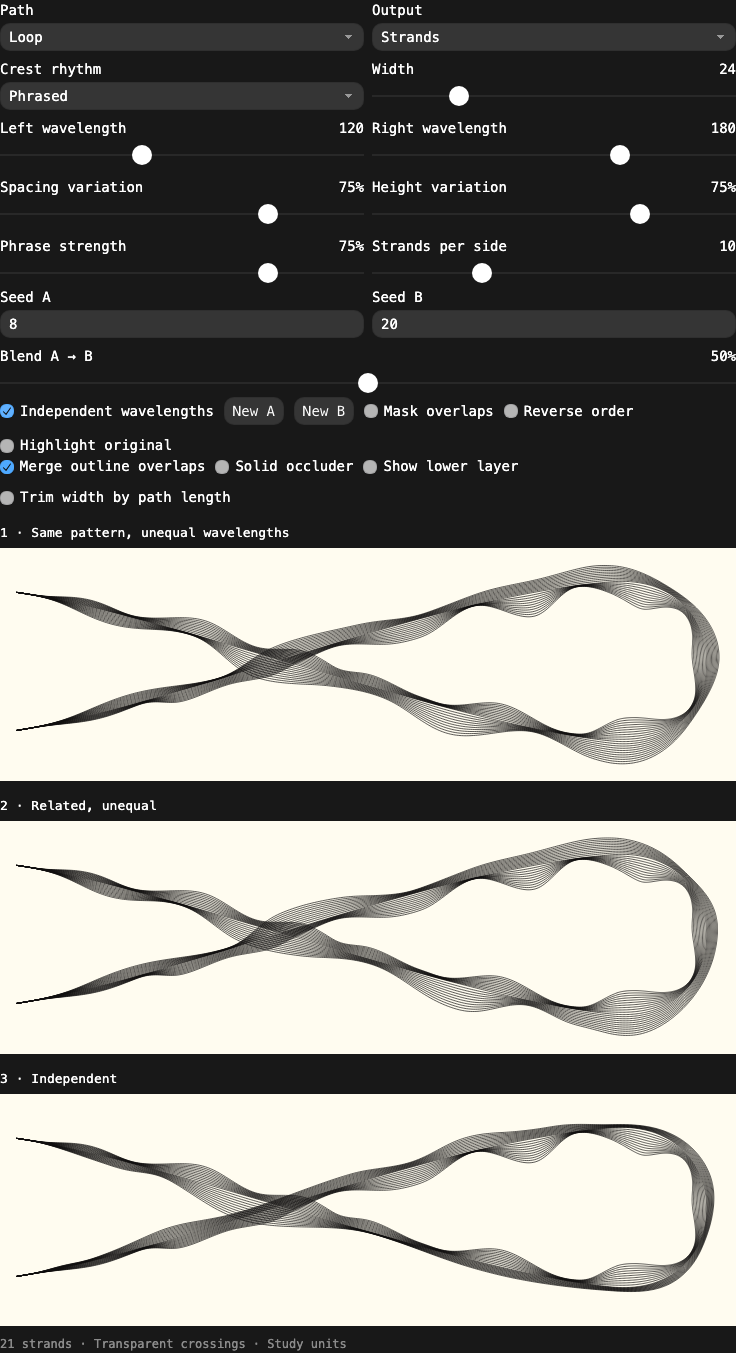
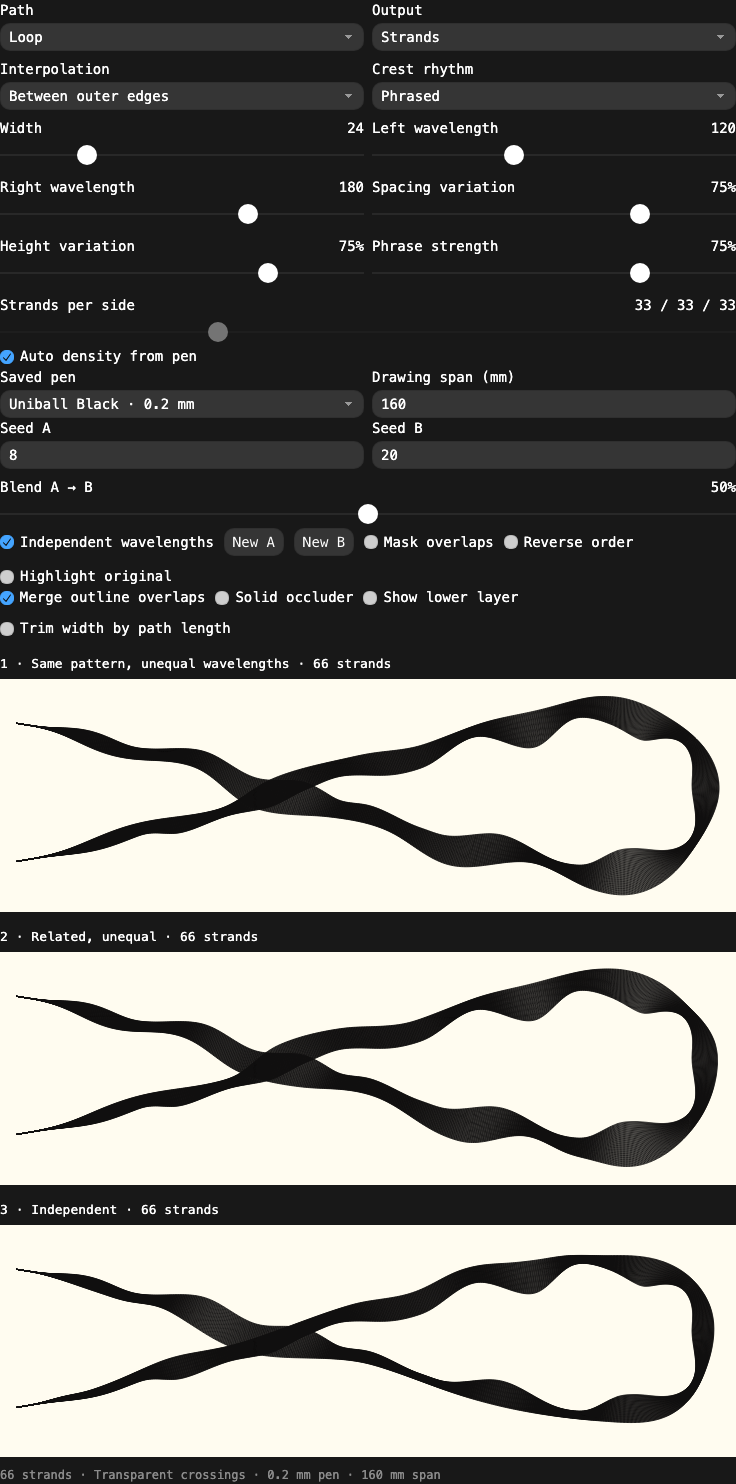
feat: add edge interpolation and pen-based ribbon density

diff --git a/docs/reviews/open-path-ribbon-2026-09-08/study-template.html b/docs/reviews/open-path-ribbon-2026-09-08/study-template.html
@@ -19,6 +19,12 @@
         <option value="solid">Solid silhouette</option>
       </select>
     </label>
+    <label class="form-label">Interpolation
+      <select class="form-select" id="ribbon-interpolation">
+        <option value="spine">Through original path</option>
+        <option value="edges">Between outer edges</option>
+      </select>
+    </label>
     <label class="form-label">Crest rhythm
       <select class="form-select" id="ribbon-rhythm">
         <option value="phrased" selected>Phrased</option>
@@ -49,6 +55,13 @@
     <label class="form-label">Strands per side <output id="ribbon-steps-value">10</output>
       <input class="form-range" id="ribbon-steps" type="range" min="1" max="32" value="10" step="1">
     </label>
+  </div>
+  <div class="viz-row">
+    <label class="form-check"><input class="form-check-input" id="ribbon-autoDensity" type="checkbox"><span class="form-check-label">Auto density from pen</span></label>
+  </div>
+  <div class="viz-controls" id="ribbon-density-controls" hidden>
+    <label class="form-label">Saved pen <select class="form-select" id="ribbon-pen"></select></label>
+    <label class="form-label">Drawing span (mm) <input class="form-control" id="ribbon-spanMm" type="number" min="10" max="300" step="1" value="160"></label>
   </div>
   <div class="viz-controls">
     <label class="form-label">Seed A <input class="form-control" id="ribbon-seedA" type="number" min="0" max="4294967295" step="1" value="7"></label>
@@ -93,6 +106,8 @@
 (() => {
   const root = document.getElementById('ribbon-study');
   const find = id => root.querySelector('#ribbon-' + id);
+  const savedPens=/* PEN_INSERT */;
+  for(const pen of savedPens){const el=document.createElement('option');el.value=pen.id;el.textContent=pen.name+' · '+pen.line_diameter_mm+' mm';find('pen').appendChild(el);}
   const relations = [['mirrored','1 · Mirrored'],['related','2 · Related, unequal'],['independent','3 · Independent']];
 
   const pathData = points => points.map((p,i) => (i ? 'L' : 'M') + p.map(n => n.toFixed(3)).join(' ')).join(' ');
@@ -103,11 +118,15 @@
       spacingVariation:+find('spacingVariation').value/100, heightVariation:+find('heightVariation').value/100,
       phrasing:+find('phrasing').value/100, width: +find('width').value, wavelength: +find('wavelength').value,
       variation: +find('variation').value / 100, steps: +find('steps').value,
+      interpolation:find('interpolation').value,autoDensity:find('autoDensity').checked&&find('outputMode').value==='strands',
       outputMode:find('outputMode').value,mergeOverlaps:find('mergeOverlaps').checked,solidOccluder:find('solidOccluder').checked,
       widthByLength:find('widthByLength').checked,taper:.12,maskLoops:find('outputMode').value==='strands'&&find('mask').checked,reverseOrder:find('reverse').checked };
+    find('autoDensity').disabled=options.outputMode!=='strands';
+    find('density-controls').hidden=!options.autoDensity;
+    find('steps').disabled=options.autoDensity;
     find('mergeOverlaps').disabled=options.outputMode!=='outline';
     find('mask').disabled=options.outputMode!=='strands';
-    find('guide').disabled=options.outputMode!=='strands';
+    find('guide').disabled=options.outputMode!=='strands'||options.interpolation==='edges';
     find('widthByLength').disabled=!['many','crossing'].includes(find('shape').value);
     find('right-wave-control').hidden=!options.independentWavelengths;
     find('wave-label').textContent=options.independentWavelengths?'Left wavelength':'Wavelength';
@@ -123,7 +142,13 @@
     const inputs = find('shape').value==='many' ? [
       [[40,45],[660,45]],[[40,115],[480,115]],[[40,185],[300,185]],[[40,255],[150,255]]
     ] : find('shape').value==='crossing' ? [[[60,40],[640,240]],[[60,240],[640,40]]] : [fixtures[find('shape').value]];
+    const allPoints=inputs.flat(),xs=allPoints.map(p=>p[0]);
+    const spanUnits=Math.max(1,Math.max(...xs)-Math.min(...xs));
+    const spanMm=Math.max(10,Math.min(300,+find('spanMm').value||160));
+    const pen=savedPens.find(p=>p.id===find('pen').value)??savedPens[0];
+    options.penWidth=pen.line_diameter_mm*spanUnits/spanMm;
     const results = relations.map(([relation,label]) => ({label:relation==='mirrored'&&options.independentWavelengths&&options.wavelengthRight!==options.wavelength?'1 · Same pattern, unequal wavelengths':label, ...RibbonStudy.generateMany(inputs,{...options,relation})}));
+    if(options.autoDensity){find('steps-value').textContent=results.map(r=>r.steps).join(' / ');for(const r of results)r.label+=' · '+(2*r.steps+(options.interpolation==='edges'?0:1))+' strands';}
     // The same framing for every relation preserves the comparison's scale.
     let x0=Infinity,y0=Infinity,x1=-Infinity,y1=-Infinity;
     for (const r of results) for (const strand of r.strands) for(const [x,y] of strand) {
@@ -135,8 +160,8 @@
     });
     for(const r of results)r.background=find('background').checked ?
       (options.solidOccluder||options.outputMode==='solid' ? RibbonSilhouette.clipPaths(background,r.silhouette??[]) : background) : [];
-    find('drawings').innerHTML = results.map(r => `<div class="ribbon-label">${r.label}</div><svg class="ribbon-drawing" role="img" aria-label="${r.label} open path ribbon, ${options.outputMode}" viewBox="${box.join(' ')}"><title>${r.label}</title><g class="ribbon-lower" fill="none" stroke="#878580" stroke-width=".8">${r.background.map(p=>`<path d="${pathData(p)}"/>`).join('')}</g>${options.outputMode==='solid' ? `<path class="ribbon-solid" fill="#100F0F" fill-rule="evenodd" d="${(r.silhouette??[]).flat().map(p=>pathData(p)+'Z').join(' ')}"/>` : `<g class="ribbon-ink">${r.drawingPaths.map(p=>`<path d="${pathData(p)}"/>`).join('')}</g>`}${options.outputMode==='solid'?`<g class="ribbon-ink">${r.items.filter(item=>item.diagnostics.skipped).flatMap(item=>item.strands).map(p=>`<path d="${pathData(p)}"/>`).join('')}</g>`:''}${find('guide').checked&&options.outputMode==='strands' ? r.spines.map(p=>`<path class="ribbon-guide" d="${pathData(p)}"/>`).join('') : ''}</svg>`).join('');
-    find('detail').textContent = `${options.outputMode==='strands' ? (inputs.length>1 ? results[0].retainedSteps.map(n=>2*n+1).join(' / ')+' strands' : (2*options.steps+1)+' strands') : options.outputMode==='outline'?'Outline only':'Solid silhouette'} · ${options.solidOccluder||options.outputMode==='solid'?'Solid occlusion':options.maskLoops ? (options.reverseOrder ? 'Earlier passages on top' : 'Later passages on top') : 'Transparent crossings'} · Study units`;
+    find('drawings').innerHTML = results.map(r => `<div class="ribbon-label">${r.label}</div><svg class="ribbon-drawing" role="img" aria-label="${r.label} open path ribbon, ${options.outputMode}" viewBox="${box.join(' ')}"><title>${r.label}</title><g class="ribbon-lower" fill="none" stroke="#878580" stroke-width=".8">${r.background.map(p=>`<path d="${pathData(p)}"/>`).join('')}</g>${options.outputMode==='solid' ? `<path class="ribbon-solid" fill="#100F0F" fill-rule="evenodd" d="${(r.silhouette??[]).flat().map(p=>pathData(p)+'Z').join(' ')}"/>` : `<g class="ribbon-ink" style="stroke-width:${options.autoDensity?options.penWidth:.65}">${r.drawingPaths.map(p=>`<path d="${pathData(p)}"/>`).join('')}</g>`}${options.outputMode==='solid'?`<g class="ribbon-ink">${r.items.filter(item=>item.diagnostics.skipped).flatMap(item=>item.strands).map(p=>`<path d="${pathData(p)}"/>`).join('')}</g>`:''}${find('guide').checked&&options.outputMode==='strands'&&options.interpolation!=='edges' ? r.spines.map(p=>`<path class="ribbon-guide" d="${pathData(p)}"/>`).join('') : ''}</svg>`).join('');
+    find('detail').textContent = `${options.outputMode==='strands' ? (inputs.length>1 ? results[0].retainedSteps.map(n=>2*n+(options.interpolation==='edges'?0:1)).join(' / ')+' strands' : (2*results[0].steps+(options.interpolation==='edges'?0:1))+' strands') : options.outputMode==='outline'?'Outline only':'Solid silhouette'} · ${options.solidOccluder||options.outputMode==='solid'?'Solid occlusion':options.maskLoops ? (options.reverseOrder ? 'Earlier passages on top' : 'Later passages on top') : 'Transparent crossings'} · ${options.autoDensity?(results.some(r=>r.densityLimited)?'Density limit reached · ':'')+pen.line_diameter_mm+' mm pen · '+spanMm+' mm span':'Study units'}`;
     root.dataset.rendered = 'true';
     root.dataset.seed = String(seed);
   }

diff --git a/docs/reviews/open-path-ribbon-2026-09-08/geometry.js b/docs/reviews/open-path-ribbon-2026-09-08/geometry.js
@@ -367,6 +367,25 @@
 
     const leftWidths = outerWidths(leftProfile,0);
     const rightWidths = outerWidths(rightProfile,1);
+    if(opts.autoDensity) {
+      if(!(Number.isFinite(+opts.penWidth)&&+opts.penWidth>0))throw Error('Auto density needs a positive pen width in path units');
+      // Budget both endpoint profiles, independent of the current seed blend.
+      // A shared count avoids strands popping in/out while the blend is moved.
+      const refsA=profiles(opts.seed),refsB=seedB===opts.seed?refsA:profiles(seedB);
+      let peakLeft=0,peakRight=0,maxFrame=0;
+      for(let i=0;i<spine.length;i++) {
+        const s=sampled.ss[i],envelope=opts.width*taperAt(s,sampled.total,opts.taper);
+        peakLeft=Math.max(peakLeft,refsA[0](s)*envelope,refsB[0](s)*envelope);
+        peakRight=Math.max(peakRight,refsA[1](s)*envelope,refsB[1](s)*envelope);
+        maxFrame=Math.max(maxFrame,Math.hypot(frame[i].nx,frame[i].ny));
+      }
+      const widest=(opts.interpolation==='edges'?peakLeft+peakRight:Math.max(peakLeft,peakRight))*maxFrame;
+      const intervals=Math.ceil(widest/(+opts.penWidth*.9));
+      const requiredSteps=Math.max(1,opts.interpolation==='edges'?Math.ceil((intervals+1)/2):intervals);
+      opts.steps=Math.min(512,requiredSteps);
+      if(opts.densityProbe)return {requiredSteps,steps:opts.steps,densityLimited:requiredSteps>512};
+      diagnostics.autoSteps=opts.steps;diagnostics.densityLimited=requiredSteps>512;
+    }
     function side(sign, widths, level) {
       const nodes=spine.map((p, i) => {
         if (i === 0) return {p:source[0].slice(),s:sampled.ss[i]};
@@ -378,11 +397,24 @@
     }
 
     const retained = clamp(Math.floor(opts.retainedSteps ?? opts.steps),1,opts.steps);
-    const leftLevels = [], rightLevels = [];
-    for (let i = retained; i >= 1; i--) leftLevels.push(side(1, leftWidths, i / opts.steps));
-    for (let i = 1; i <= retained; i++) rightLevels.push(side(-1, rightWidths, i / opts.steps));
-    const leftNodes=leftLevels[0],rightNodes=rightLevels[rightLevels.length-1];
-    const paths=leftLevels.concat([spine.map((p,i)=>({p,s:sampled.ss[i]}))],rightLevels);
+    let paths,leftNodes,rightNodes;
+    if(opts.interpolation==='edges') {
+      // Even strand count skips a dedicated midpoint. Equal fractions span the
+      // two envelopes; asymmetric sides can carry strands across the source.
+      paths=[];
+      const count=2*opts.steps,trim=opts.steps-retained;
+      for(let i=trim;i<count-trim;i++) {
+        const t=i/(count-1);
+        paths.push(side(1,leftWidths.map((w,j)=>mix(w,-rightWidths[j],t)),1));
+      }
+      leftNodes=paths[0];rightNodes=paths.at(-1);
+    } else {
+      const leftLevels = [], rightLevels = [];
+      for (let i = retained; i >= 1; i--) leftLevels.push(side(1, leftWidths, i / opts.steps));
+      for (let i = 1; i <= retained; i++) rightLevels.push(side(-1, rightWidths, i / opts.steps));
+      leftNodes=leftLevels[0];rightNodes=rightLevels[rightLevels.length-1];
+      paths=leftLevels.concat([spine.map((p,i)=>({p,s:sampled.ss[i]}))],rightLevels);
+    }
     const left=leftNodes.map(n=>n.p),right=rightNodes.map(n=>n.p);
     let result;
     if(opts.maskLoops) {
@@ -392,7 +424,8 @@
     const mode=opts.outputMode||'strands';
     if(mode!=='strands'||opts.solidOccluder||opts.maskAcrossPaths) {
       if(!root.RibbonSilhouette)throw Error('Ribbon silhouette helper missing');
-      const spineNodes=spine.map((p,i)=>({p,s:sampled.ss[i]}));
+      const spineNodes=opts.interpolation==='edges' ? side(1,leftWidths.map((w,i)=>(w-rightWidths[i])/2),1) :
+        spine.map((p,i)=>({p,s:sampled.ss[i]}));
       result.silhouette=root.RibbonSilhouette.fromNodes(leftNodes,rightNodes,spineNodes,{mergeOverlaps:true});
       const outline=opts.mergeOverlaps||mode==='solid' ? result.silhouette :
         root.RibbonSilhouette.fromNodes(leftNodes,rightNodes,spineNodes,{mergeOverlaps:false});
@@ -405,10 +438,13 @@
   function generateMany(inputs,options={}) {
     const length=points=>points.slice(1).reduce((sum,p,i)=>sum+dist(points[i],p),0);
     const lengths=inputs.map(p=>{const clean=sanitize(p);return clean.length>1&&!same(clean[0],clean.at(-1))?length(clean):0;});
-    const longest=Math.max(0,...lengths), steps=Math.max(1,Math.floor(+options.steps||defaults.steps));
+    const longest=Math.max(0,...lengths);
+    const probes=options.autoDensity?inputs.map(p=>generate(p,{...options,densityProbe:true})):[];
+    const requiredSteps=probes.length?Math.max(1,...probes.map(p=>p.requiredSteps??1)):Math.max(1,Math.floor(+options.steps||defaults.steps));
+    const steps=options.autoDensity?Math.min(512,requiredSteps):requiredSteps;
     const counts=lengths.map(l=>options.widthByLength&&longest>0 ? Math.max(1,Math.ceil(steps*l/longest-1e-10)) : steps);
     const maskAcrossPaths=!!options.maskLoops&&inputs.length>1&&(!options.outputMode||options.outputMode==='strands');
-    const items=inputs.map((p,i)=>generate(p,{...options,retainedSteps:counts[i],maskAcrossPaths}));
+    const items=inputs.map((p,i)=>generate(p,{...options,steps,autoDensity:false,retainedSteps:counts[i],maskAcrossPaths}));
     if(maskAcrossPaths)items.forEach((item,index)=>{
       if(item.diagnostics.skipped)return;
       const blockers=root.RibbonSilhouette.union(items.filter((_,j)=>options.reverseOrder?j<index:j>index).map(r=>r.silhouette??[]));
@@ -421,7 +457,7 @@
       });
       item.strands=strands;item.strandIndices=strandIndices;item.drawingPaths=strands;
     });
-    const result={items,retainedSteps:counts,strands:items.flatMap(r=>r.strands),
+    const result={items,steps,densityLimited:options.autoDensity&&requiredSteps>512,retainedSteps:counts,strands:items.flatMap(r=>r.strands),
       spines:items.map(r=>r.spine),drawingPaths:items.flatMap(r=>r.drawingPaths??r.strands)};
     if(items.some(r=>r.silhouette)) {
       result.silhouette=root.RibbonSilhouette.union(items.map(r=>r.silhouette??[]));

diff --git a/docs/reviews/open-path-ribbon-2026-09-08/check-study.py b/docs/reviews/open-path-ribbon-2026-09-08/check-study.py
@@ -10,7 +10,7 @@ OUT = Path('/Users/ianduclos/.codex/visualizations/2026/09/08/01a0829a-4f4d-7ca2
 
 def run():
     join_script = '/*'+(HERE/'vendor/polygon-clipping-LICENSE.md').read_text()+'*/\n'+(HERE/'vendor/polygon-clipping-0.15.7.js').read_text()+'\n'+(HERE/'corner-envelope.js').read_text()
-    fragment = (HERE / 'study-template.html').read_text().replace('/* JOIN_INSERT */',join_script).replace('/* MASKING_INSERT */', (HERE / 'masking.js').read_text()).replace('/* SILHOUETTE_INSERT */',(HERE/'silhouette.js').read_text()).replace('/* GEOMETRY_INSERT */', (HERE / 'geometry.js').read_text())
+    fragment = (HERE / 'study-template.html').read_text().replace('/* PEN_INSERT */',(HERE/'pen-widths.json').read_text()).replace('/* JOIN_INSERT */',join_script).replace('/* MASKING_INSERT */', (HERE / 'masking.js').read_text()).replace('/* SILHOUETTE_INSERT */',(HERE/'silhouette.js').read_text()).replace('/* GEOMETRY_INSERT */', (HERE / 'geometry.js').read_text())
     OUT.parent.mkdir(parents=True, exist_ok=True)
     OUT.write_text(fragment)
     css = (KIT / 'assets/visualize.css').read_text()
@@ -45,6 +45,23 @@ def run():
         page.locator('#ribbon-independentWavelengths').uncheck()
         assert not page.locator('#ribbon-wavelengthRight').is_visible()
         assert page.locator('.ribbon-ink').first.inner_html()==a
+        page.select_option('#ribbon-interpolation','edges')
+        assert page.locator('.ribbon-ink path').count()==60
+        assert page.locator('#ribbon-guide').is_disabled()
+        page.select_option('#ribbon-shape','corner')
+        page.locator('#ribbon-study').screenshot(path=str(HERE/'edge-corner.png'))
+        page.select_option('#ribbon-shape','straight')
+        page.locator('#ribbon-autoDensity').check()
+        assert page.locator('#ribbon-steps').is_disabled()
+        assert page.locator('#ribbon-density-controls').is_visible()
+        thickCount=page.locator('.ribbon-ink path').count()
+        penRows=json.loads((HERE/'pen-widths.json').read_text())
+        page.select_option('#ribbon-pen',min(penRows,key=lambda p:p['line_diameter_mm'])['id'])
+        assert page.locator('.ribbon-ink path').count()>=thickCount
+        page.locator('#ribbon-study').screenshot(path=str(HERE/'edge-auto-density.png'))
+        page.locator('#ribbon-autoDensity').uncheck()
+        page.select_option('#ribbon-interpolation','spine')
+        assert page.locator('.ribbon-ink path').count()==63
         for name in ['spacingVariation','heightVariation','phrasing']:
             before=page.locator('.ribbon-ink').first.inner_html()
             page.locator('#ribbon-'+name).evaluate('(e)=>{e.value=0;e.dispatchEvent(new Event("input"));}')
@@ -126,6 +143,8 @@ def run():
         page.locator('#ribbon-guide').uncheck()
         page.locator('#ribbon-independentWavelengths').check()
         page.locator('#ribbon-seedBlend').evaluate('(e)=>{e.value=50;e.dispatchEvent(new Event("input"));}')
+        page.locator('#ribbon-autoDensity').check()
+        page.select_option('#ribbon-interpolation','edges')
         for size in [736,360]:
             page.set_viewport_size({'width':size,'height':1200})
             for theme in ['light','dark']:
@@ -135,6 +154,8 @@ def run():
         page.set_viewport_size({'width':736,'height':1200})
         page.emulate_media(color_scheme='light')
         page.select_option('#ribbon-shape','straight')
+        page.locator('#ribbon-autoDensity').uncheck()
+        page.select_option('#ribbon-interpolation','spine')
         page.locator('#ribbon-independentWavelengths').uncheck()
         page.locator('#ribbon-seedBlend').evaluate('(e)=>{e.value=0;e.dispatchEvent(new Event("input"));}')
         for name in ['spacingVariation','heightVariation']:

diff --git a/docs/reviews/open-path-ribbon-2026-09-08/OUTPUT-STATUS.md b/docs/reviews/open-path-ribbon-2026-09-08/OUTPUT-STATUS.md
@@ -77,3 +77,40 @@ passes inter-path cuts, intact top path, reversal, unchanged silhouette, provena
 determinism and single-path compatibility. Length/output checks pass too. Browser
 checks cover the new fixture, mask toggling and reversal; `cross-path-masking.png`
 records the preview. These are study checks, not installed-app validation.
+
+## Edge interpolation and pen-based density
+
+`interpolation:'edges'` blends signed widths directly from one outer envelope to
+the other, before the existing corner regularization. It uses `2*steps` strands
+(an even count), avoiding a dedicated original or midpoint strand. The original
+remains internal reference geometry only. The default `spine` mode is unchanged.
+Length trimming removes pairs from the ends of the full edge-interpolation grid;
+it never redistributes survivors. A trimmed asymmetric band can drift away from
+the source, so its silhouette uses the interpolated band centre as its sweep
+reference rather than incorrectly filling back to the original path.
+
+`autoDensity` requires `penWidth` in path-coordinate units. The UI reads that
+from the selected saved pen's `line_diameter_mm`, converted using the declared
+160 mm default source horizontal span. `pen-widths.json` is a snapshot from the
+local saved pen library taken this turn, not a live connection to the app. The
+pen selector includes the saved 0.2 mm Uniball and three 0.4 mm presets. Changing
+saved pens in the app does not refresh an already displayed study. Production
+integration should obtain the assigned layer's pen directly.
+
+Density targets a maximum sample cross-section gap of 90% of pen width. It budgets
+both seed endpoints and the normal/miter frame magnitude conservatively, holding
+one count throughout the seed blend. In multi-path collections it chooses the
+largest required count before length trimming. A cap of 512 per-side steps has
+an explicit `densityLimited` diagnostic and visible status; this is not silently
+reported as solid. The preview uses the actual scaled pen width when auto mode
+is active. Pen spread, curve/corner topology and paper still need physical
+validation; no blanket ink-coverage guarantee is made.
+
+`edge-density-check.cjs` passes even/no-centre interpolation, equal straight gaps,
+exact outer edges and trimmed survivors, legacy defaults, seed endpoints,
+auto-density gap bounds, thinner-pen monotonicity, stable blend counts and cap
+reporting. Output checks include the displaced trimmed-band silhouette. Browser
+checks cover the pen selector, auto/manual count switching and 360/736 layouts.
+The lead inspected `edge-corner.png`, `edge-auto-density.png` and the dense loop
+preview. Ready for Ian to check. No app source, hardware or saved pen settings
+were changed.
